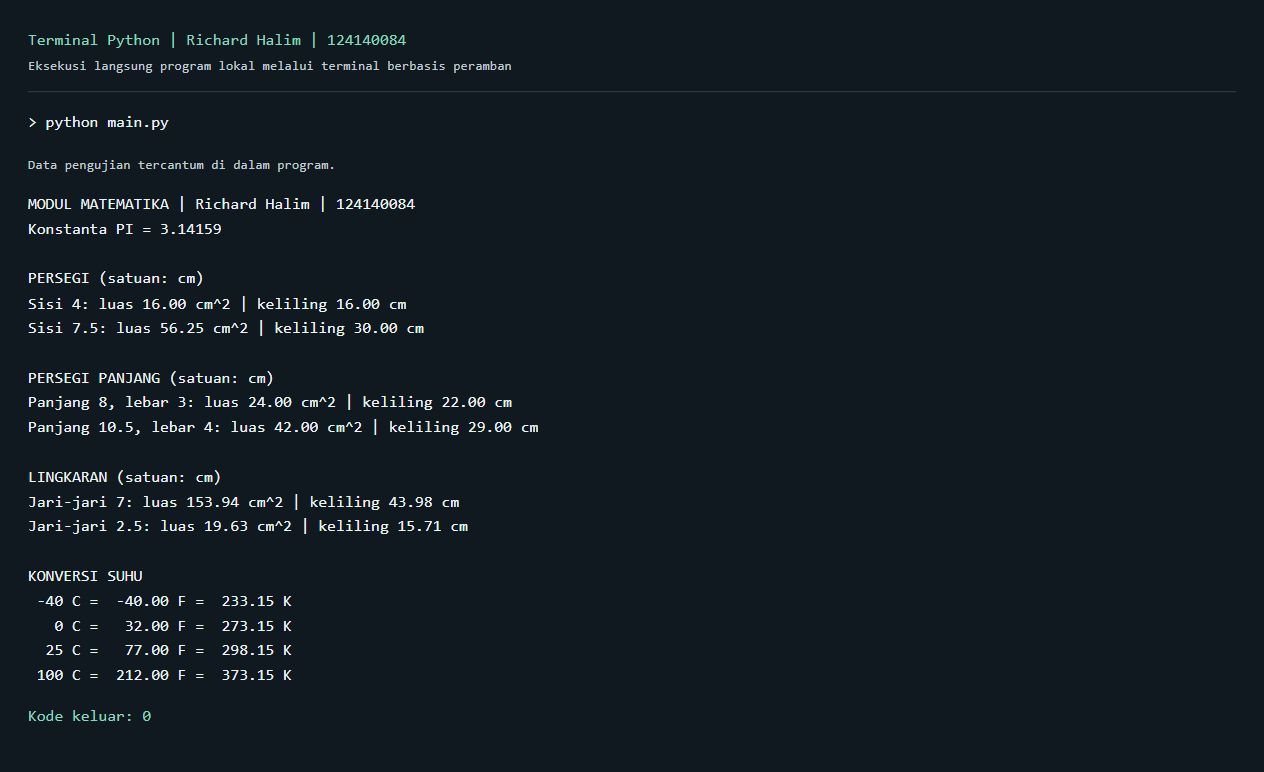
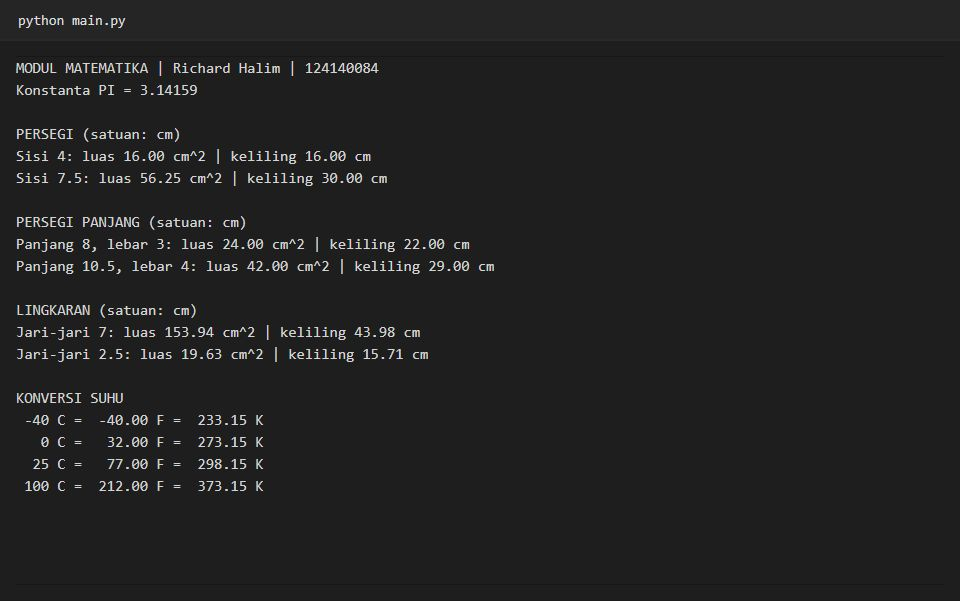
Rapikan dokumentasi dan contoh keluaran program

Changed region(s): [[0.0, 0.4792, 0.4688, 0.9584], [0.0, 0.2097, 0.5312, 0.4493], [0.0, 0.03, 0.4062, 0.1797]]

diff --git a/richardhalim_124140084_pertemuan4/README.md b/richardhalim_124140084_pertemuan4/README.md
@@ -1,15 +1,12 @@
-# Pertemuan 4 — Dasar Pemrograman Python
+# Pertemuan 4 - Python Dasar
 
-**Richard Halim · NIM 124140084 · Kelas RA**
+**Richard Halim | NIM 124140084 | Kelas RA**
 
-Tiga program konsol untuk latihan variabel, percabangan, perulangan, fungsi, list, dictionary, dan modul Python. Seluruh program menggunakan pustaka bawaan Python, sehingga tidak memerlukan `pip install`.
+Folder ini berisi tiga program tugas Python dasar dan beberapa latihan dari materi praktikum. Program menggunakan pustaka bawaan Python, jadi tidak perlu memasang paket tambahan.
 
-## Menjalankan di VS Code
+## Cara menjalankan
 
-1. Pasang Python 3.10 atau lebih baru dan ekstensi Python di VS Code.
-2. Buka folder `richardhalim_124140084_pertemuan4` melalui **File → Open Folder**.
-3. Buka **Terminal → New Terminal** dan cek `python --version`.
-4. Jalankan masing-masing program:
+Buka folder `richardhalim_124140084_pertemuan4` di VS Code, lalu buka terminal. Gunakan Python 3.10 atau lebih baru.
 
 ```bash
 python tugas1_bmi.py
@@ -17,106 +14,72 @@ python tugas2_nilai_mahasiswa.py
 python main.py
 ```
 
-Jika menjalankan dari direktori utama repo, masuk dahulu dengan:
+Jika terminal masih berada di folder utama repositori, masuk ke folder tugas terlebih dahulu:
 
 ```bash
 cd richardhalim_124140084_pertemuan4
 ```
 
-Pada macOS/Linux, gunakan `python3` jika perintah `python` tidak tersedia. Modul `math_operations.py` diimpor oleh `main.py`, sehingga tidak perlu dijalankan sendiri.
+Pada macOS atau Linux, perintah `python` dapat diganti dengan `python3`.
 
-## Isi folder
+## 1. Penghitung BMI
+
+`tugas1_bmi.py` menerima berat badan dalam kilogram dan tinggi badan dalam meter. BMI dihitung dengan rumus `berat / (tinggi * tinggi)`, lalu hasilnya ditampilkan dengan dua angka desimal.
+
+Fungsi `hitung_bmi()` menghitung hasilnya, sedangkan `kategori_bmi()` menentukan kategori menggunakan `if-elif-else`:
+
+| BMI | Kategori |
+|---|---|
+| Kurang dari 18.5 | Berat badan kurang |
+| 18.5 sampai kurang dari 25 | Berat badan normal |
+| 25 sampai kurang dari 30 | Berat badan berlebih |
+| 30 atau lebih | Obesitas |
+
+Masukan yang bukan angka, nol, atau negatif akan diminta ulang. Gunakan titik untuk desimal, misalnya tinggi `1.70`. Berat 65 kg dengan tinggi 1.70 m menghasilkan BMI 22.49, yaitu kategori berat badan normal menurut batas pada soal.
+
+![Hasil program BMI](docs/soal1-bmi.png)
+
+## 2. Pengelolaan nilai mahasiswa
+
+`tugas2_nilai_mahasiswa.py` mengolah list berisi lima dictionary. Setiap data memiliki nama, NIM, nilai UTS, nilai UAS, dan nilai tugas. Data mahasiswa dan nilainya digunakan sebagai contoh latihan.
+
+Nilai akhir dihitung oleh `hitung_nilai_akhir()` dengan bobot:
 
 ```text
-richardhalim_124140084_pertemuan4/
-├── .gitignore
-├── README.md
-├── tugas1_bmi.py
-├── tugas2_nilai_mahasiswa.py
-├── math_operations.py
-├── main.py
-├── test_tugas.py
-├── docs/
-│   ├── soal1-bmi.png
-│   ├── soal2-nilai.png
-│   ├── soal3-modul.png
-│   ├── bmi.txt
-│   ├── nilai.txt
-│   ├── modul.txt
-│   └── hasil-pengujian.txt
-└── latihan/
-    ├── latihan1.py
-    ├── latihan2_suhu.py
-    ├── latihan3_tebak.py
-    ├── latihan4_validasi.py
-    ├── latihan5_kontak.py
-    ├── password_gen.py
-    └── main.py
+Nilai akhir = 30% UTS + 40% UAS + 30% tugas
 ```
 
-## Soal 1: Penghitung BMI (30%)
+`tentukan_grade()` membagi hasil menjadi A (>= 80), B (>= 70), C (>= 60), D (>= 50), dan E (< 50). `olah_nilai()` menyusun rekap tanpa mengubah data awal. Hasil ditampilkan sebagai tabel yang memuat nilai komponen, nilai akhir, dan grade.
 
-Program membaca berat dalam **kg** dan tinggi dalam **meter**, lalu memanggil `hitung_bmi(berat, tinggi)`. Rumusnya `berat / (tinggi * tinggi)`. `kategori_bmi(bmi)` menggunakan `if-elif-else` untuk kategori berikut:
+Fungsi `cari_ekstrem()` mencari mahasiswa dengan nilai tertinggi dan terendah. Jika ada nilai yang sama, semua nama dengan nilai tersebut ditampilkan.
 
-| BMI | Kategori sesuai modul |
-|---|---|
-| < 18.5 | Berat badan kurang |
-| 18.5 sampai < 25 | Berat badan normal |
-| 25 sampai < 30 | Berat badan berlebih |
-| >= 30 | Obesitas |
+![Hasil rekap nilai mahasiswa](docs/soal2-nilai.png)
 
-Hasil dicetak dengan f-string dua angka desimal. Penentuan kategori memakai nilai BMI sebelum pembulatan. `baca_positif(label)` mengulang masukan jika teks bukan angka, nol, negatif, NaN, atau tak hingga. Input desimal menggunakan titik, misalnya `1.70`, bukan `170`.
+## 3. Modul matematika
 
-Contoh masukan: berat `65`, tinggi `1.70`. Hasil: **22.49**, kategori **Berat badan normal**. Kategori ini mengikuti ketentuan soal praktikum.
+`math_operations.py` berisi konstanta `PI = 3.14159` dan fungsi berikut:
 
-![Hasil eksekusi soal 1](docs/soal1-bmi.png)
+- Luas dan keliling persegi.
+- Luas dan keliling persegi panjang.
+- Luas dan keliling lingkaran.
+- Konversi Celsius ke Fahrenheit dan Celsius ke Kelvin.
 
-## Soal 2: Nilai mahasiswa (40%)
+Setiap fungsi menerima ukuran atau suhu dan mengembalikan hasil perhitungan. `validasi_ukuran()` memeriksa agar ukuran geometri tidak negatif.
 
-`DATA_MAHASISWA` berisi lima dictionary dengan kunci `nama`, `nim`, `nilai_uts`, `nilai_uas`, dan `nilai_tugas`. Nama serta nilai selain identitas praktikan merupakan **data simulasi**, bukan data akademik sebenarnya.
-
-Alurnya:
-
-1. `hitung_nilai_akhir(uts, uas, tugas)` menerapkan bobot **30% UTS + 40% UAS + 30% tugas**.
-2. `tentukan_grade(nilai_akhir)` menentukan A (>= 80), B (>= 70), C (>= 60), D (>= 50), atau E (< 50).
-3. `olah_nilai(data_mahasiswa)` menghasilkan rekap baru tanpa mengubah data sumber.
-4. `cari_ekstrem(hasil)` mengembalikan daftar mahasiswa bernilai tertinggi dan terendah. Jika seri, semua mahasiswa yang memiliki nilai tersebut ditampilkan.
-5. `main()` menampilkan tabel Nama, NIM, UTS, UAS, Tugas, Nilai Akhir, dan Grade menggunakan perataan f-string.
-
-Contoh nilai akhir: 85.50 (A), 75.50 (B), 65.50 (C), 55.50 (D), dan 45.50 (E). Nilai tertinggi milik Richard Halim (85.50); terendah milik Dewi Lestari (45.50). Data kosong untuk pencarian ekstrem dan nilai di luar 0–100 ditolak dengan `ValueError`.
-
-![Hasil eksekusi soal 2](docs/soal2-nilai.png)
-
-## Soal 3: Modul matematika (30%)
-
-`math_operations.py` menyediakan konstanta **PI = 3.14159** dan fungsi berikut:
-
-| Fungsi | Masukan | Hasil |
-|---|---|---|
-| `luas_persegi` | sisi | sisi pangkat dua |
-| `keliling_persegi` | sisi | 4 × sisi |
-| `luas_persegi_panjang` | panjang, lebar | panjang × lebar |
-| `keliling_persegi_panjang` | panjang, lebar | 2 × (panjang + lebar) |
-| `luas_lingkaran` | jari-jari | PI × jari-jari pangkat dua |
-| `keliling_lingkaran` | jari-jari | 2 × PI × jari-jari |
-| `celsius_ke_fahrenheit` | Celsius | C × 9/5 + 32 |
-| `celsius_ke_kelvin` | Celsius | C + 273.15 |
-| `validasi_ukuran` | ukuran | None jika valid; ValueError jika tidak |
-
-`main.py` memanggil seluruh fungsi tersebut dengan dua ukuran berbeda untuk setiap bentuk, serta suhu -40, 0, 25, dan 100 Celsius. Program menggunakan dua cara impor:
+`main.py` memanggil semua fungsi dengan beberapa nilai berbeda: dua ukuran untuk setiap bentuk serta suhu -40, 0, 25, dan 100 Celsius. Dua cara impor yang digunakan adalah:
 
 ```python
 import math_operations
 from math_operations import celsius_ke_fahrenheit, celsius_ke_kelvin
 ```
 
-Contoh hasil: persegi sisi 4 memiliki luas 16.00 cm^2 dan keliling 16.00 cm; suhu 25 C menjadi 77.00 F dan 298.15 K. Ukuran geometri harus tidak negatif dan terbatas. Ukuran nol diterima sebagai kasus batas.
+Jalankan `main.py` untuk melihat hasilnya. `math_operations.py` tidak perlu dijalankan sendiri karena berfungsi sebagai modul.
 
-![Hasil eksekusi soal 3](docs/soal3-modul.png)
+![Hasil penggunaan modul matematika](docs/soal3-modul.png)
 
-## Latihan mandiri pendamping
+## Latihan
 
-Folder `latihan/` berisi enam latihan mandiri pada bagian materi, terpisah dari tiga soal tugas utama. Minat penelitian pada kartu identitas adalah contoh yang dapat disesuaikan.
+Folder `latihan/` berisi latihan identitas diri, konversi suhu, tebak angka, validasi password, daftar kontak, dan modul pembuat password acak.
 
 ```bash
 python latihan/latihan1.py
@@ -127,44 +90,12 @@ python latihan/latihan5_kontak.py
 python latihan/main.py
 ```
 
-Latihan tersebut mencakup print dan kartu identitas, konversi suhu, tebak angka, validator password, katalog kontak, dan generator password acak. Generator memakai `random` dan `string` sesuai latihan; bukan generator untuk kredensial produksi. Kontak hanya disimpan di memori selama program berjalan.
+## Pengujian
 
-## Pengujian dan bukti eksekusi
+Pengujian rumus, batas kategori, validasi masukan, dan jalannya program tersedia di `test_tugas.py`.
 
 ```bash
 python -m unittest -v
 ```
 
-Hasil pemeriksaan **6 November 2026: 13 pengujian lulus**. Kasus uji meliputi rumus BMI, batas 18.5/25/30, pengulangan input invalid, bobot nilai, batas seluruh grade, kelengkapan lima data, nilai ekstrem seri, penolakan data kosong, enam fungsi geometri, konversi suhu, input nonfinit, serta eksekusi ketiga program melalui CLI. Bukti rinci ada di [hasil-pengujian.txt](docs/hasil-pengujian.txt).
-
-Ketiga screenshot di atas diambil dari terminal lokal berbasis peramban yang mengeksekusi program Python sebenarnya. Input BMI diberikan melalui stdin (65 dan 1.70). Output teks asli juga disimpan pada `docs/bmi.txt`, `docs/nilai.txt`, dan `docs/modul.txt`. Untuk mengambil screenshot terminal VS Code sendiri, jalankan tiga perintah utama di atas lalu ambil tangkapan layar masing-masing hasil.
-
-Semua fungsi mempunyai docstring yang menjelaskan masukan dan nilai kembaliannya. Penamaan memakai snake_case dan indentasi empat spasi. Pengecekan `pycodestyle` dilakukan untuk konvensi PEP 8. Folder `venv`, `.venv`, dan `__pycache__` diabaikan melalui `.gitignore`.
-
-## Pemeriksaan terhadap ketentuan laman
-
-| Ketentuan | Implementasi / bukti |
-|---|---|
-| Folder `[NAMA]_[NIM]_pertemuan4` dan nama repo resmi | `richardhalim_124140084_pertemuan4` dalam `pemrograman_web_itera_124140084` |
-| Berkas soal 1 sesuai nama, berat/tinggi, rumus BMI | `tugas1_bmi.py`, `hitung_bmi` |
-| Empat kategori dengan if-elif-else dan dua desimal | `kategori_bmi`, `main`; `docs/soal1-bmi.png` |
-| Minimal lima dictionary dengan lima kunci wajib | `DATA_MAHASISWA` di `tugas2_nilai_mahasiswa.py` |
-| Bobot 30:40:30 dan grade A–E | `hitung_nilai_akhir`, `tentukan_grade` |
-| Tabel lengkap serta nilai tertinggi/terendah | `main`, `cari_ekstrem`; `docs/soal2-nilai.png` |
-| Modul terpisah, luas/keliling tiga bentuk | Enam fungsi geometri di `math_operations.py` |
-| Dua konversi suhu dan konstanta | `celsius_ke_fahrenheit`, `celsius_ke_kelvin`, `PI` |
-| Semua fungsi dicoba dengan variasi input | `main.py`; `docs/soal3-modul.png` |
-| Minimal dua cara impor | `import math_operations` dan `from math_operations import ...` |
-| Identitas, alur tiap program, cara menjalankan, screenshot | README ini beserta folder `docs/` |
-| Docstring pada setiap fungsi dan PEP 8 | Seluruh berkas Python |
-| Abaikan venv dan cache | `.gitignore` |
-
-## Pengumpulan
-
-Acuan diperiksa pada **6 November 2026**: [Modul resmi Pertemuan 4](https://praktikum-paw20262027.vercel.app/pertemuan/4), bagian Tugas Praktikum dan Format Pengumpulan.
-
-1. Pastikan folder ini beserta kode, README, dan bukti eksekusi sudah ada di repo.
-2. Pelajari alur dan hasil setiap program sebelum mengumpulkan.
-3. Kirim tautan repo dan laporan yang diminta formulir melalui [Submission Kelas RA](https://forms.gle/J1dJrxXPGy1dtSs58).
-
-Deadline **kelas RA: Sabtu, 7 November 2026 pukul 23.59 WIB**. Laman mencantumkan batas kelas RB yang berbeda: 4 November 2026 pukul 23.59 WIB. Pengiriman formulir dilakukan oleh mahasiswa.
+Keluaran teks program dan hasil pengujian disimpan di folder `docs/`. Screenshot menggunakan terminal berbasis peramban yang menampilkan keluaran proses Python melalui terminal Windows ConPTY.
